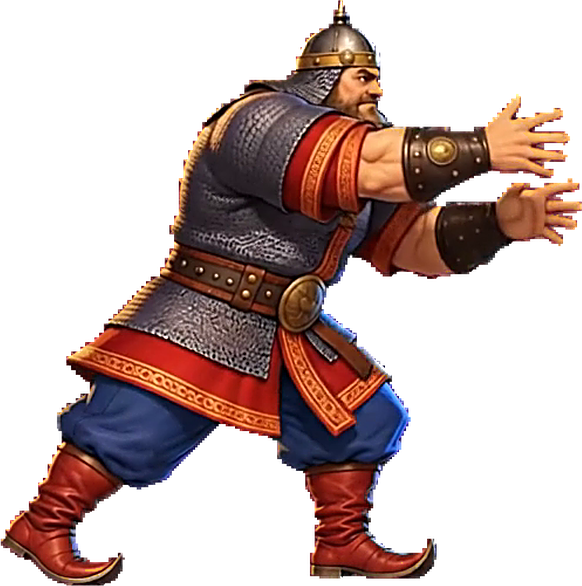
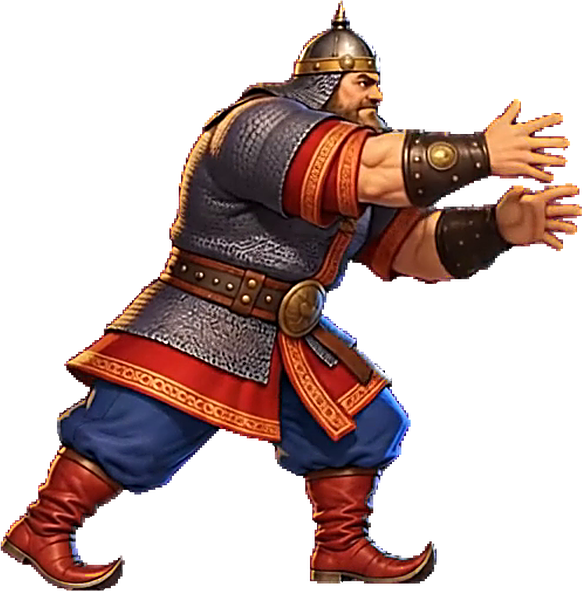
3.17.21: настоящая палица в броске, суперприём Ильи без молнии и с вылетом за экран целиком
Claude-Session: https://claude.ai/code/session_01PuLoWavph6cepVw7e2qgzV

diff --git a/bitva-legend/tools/process_fighter_art.py b/bitva-legend/tools/process_fighter_art.py
@@ -43,6 +43,8 @@
   match_scale: true — подогнать масштаб листа по голове и плечам кадра align_to (единый рост бойца).
   align_head: true — совмещать по голове (корона и лоб), а не по силуэту.
   align_each: true — совместить с образцом каждый кадр по отдельности (по горизонтали; шаг: корпус на месте).
+  lift: {"<кадр>": [<кадр-донор>, <px>]} — кадр, где боец обрезан краем ролика (улетел вверх), заменить целым
+           кадром-донором, поднятым на <px> (1440p): суперприём Ильи — взлёт за верх экрана и падение сверху.
   align_frame: какой кадр листа (с 1) совмещать с образцом — по умолчанию первый (у вставания — последний,
            он совпадает со стойкой).
 """
@@ -442,6 +444,11 @@ def main() -> int:
             f.save(out / f"{name}_{i}.png", optimize=True)
             meta["frames"].append({"file": f"{name}_{i}.png", "pivot": [round(px), round(py)],
                                    "size": [f.width, f.height]})
+        for k, (src, up) in opt.get("lift", {}).items():
+            # Кадр, обрезанный краем ролика (боец улетел за верх кадра), — целый кадр-донор, поднятый на up px.
+            d = dict(meta["frames"][int(src) - 1])
+            d["pivot"] = [d["pivot"][0], d["pivot"][1] + up]
+            meta["frames"][int(k) - 1] = d
         (out / f"{name}.json").write_text(json.dumps(meta, ensure_ascii=False, indent=1))
         print(f"  {name}: {len(frames)} кадр(ов), масштаб {scale:.3f}")
     print(f"Готово. Папка: {out}")

diff --git a/CLAUDE.md b/CLAUDE.md
@@ -114,7 +114,7 @@ Claude-Session: <ссылка на текущую сессию>
 подвешенный предмет (`life.json` + `water_*.png`); координаты — в `LIFE` / `LIFE_ARENAS` в начале скрипта.
 Промпты арен: `docs/ART_ARENA.md`, `docs/arenas/<id>.md`.
 
-## Где мы сейчас (3.17.20)
+## Где мы сейчас (3.17.21)
 - Илья и Дракула: полный набор, Дракула отполирован (стойка, прыжок, удары, шаги, броски).
 - **Илья из видео Veo:** ходьба (3.17.12, 40 кадров, шаг назад — задом наперёд); стойка и лёгкий удар рукой
   (3.17.14, из одного ролика `video/st_lp_idle_veo.mp4`: стойка 44 кадра `cycle: 110`, удар 18 кадров, hit 8–10)
@@ -141,9 +141,18 @@ Claude-Session: <ссылка на текущую сессию>
   3.17.20 — кнопки поменяны: **мельница — вперёд, вперёд + рука (`sp_ff_l`), таран — назад, назад + рука (`sp_bb_l`)**
   (листы, звуки, тесты переименованы; звук мельницы ищется по `grab` в данных приёма, палица у тарана — по `lunge`);
   фраза «Япона мать!» в `ilya_sp_dd_l.ogg` целиком (1,2 с, удар оземь подмешан).
+  3.17.21 — брошенная палица — спрайт `art/fx/mace.png` (вырезана из кадра ролика броска, в масштабе кадров Ильи,
+  крутится вокруг центра тяжести), из кадров 28–29 броска палица стёрта в исходнике; в суперприёме нет молнии и
+  вспышек, кадры, обрезанные краем ролика, заменены целым кадром, поднятым вверх (`"lift"` в sheets.json):
+  Илья целиком улетает за верх экрана и падает сверху. Промпт ударной волны удара оземь отдан (ждём картинку).
   Без опросника ещё: блок и урон сидя, его бросают.
-- **Дракула из видео:** начинаем со стойки и шагов вперёд/назад (стартовая картинка — его кадр idle_1 на #FF00FF,
-  рост 560 px в кадре 1280×720, ступни на y=639).
+- **Дракула из видео:** опросник: стойка — дуэлянт-фехтовальщик (прямая спина, подбородок вверх, передняя рука
+  с когтями вытянута как рапира, задняя у груди), шаг вперёд — быстрый скользящий шаг хищника, шаг назад — игра
+  крутит шаг вперёд задом наперёд, один ролик 10 с (стойка 3 с → шаги на месте → стойка). Архетип — дуэлянт и
+  ассасин: движения быстрые и смертоносные. Новое лицо утверждено владельцем (листы лица и роста в полный рост:
+  каштановые растрёпанные волосы, красные глаза, острые уши, худое лицо, усмешка с клыками). Отдан промпт
+  стартовой картинки (режим редактирования: модельный лист + лист лица); её привести к кадру 1280×720,
+  рост 560 px, ступни на y=639, как у Ильи.
 - **Кощей:** вся база и все 14 обычных ударов в игре, двойное разрешение. Дальше — промпты и листы спецприёмов
   (Кощеева игла, Бессмертие, Удар кладенцом, Похищение) и суперприёма «Смерть в игле» (`fighter_data.gd`).
 - Карта «Кощеево царство» готова и анимирована (сундук на дубе качается).
